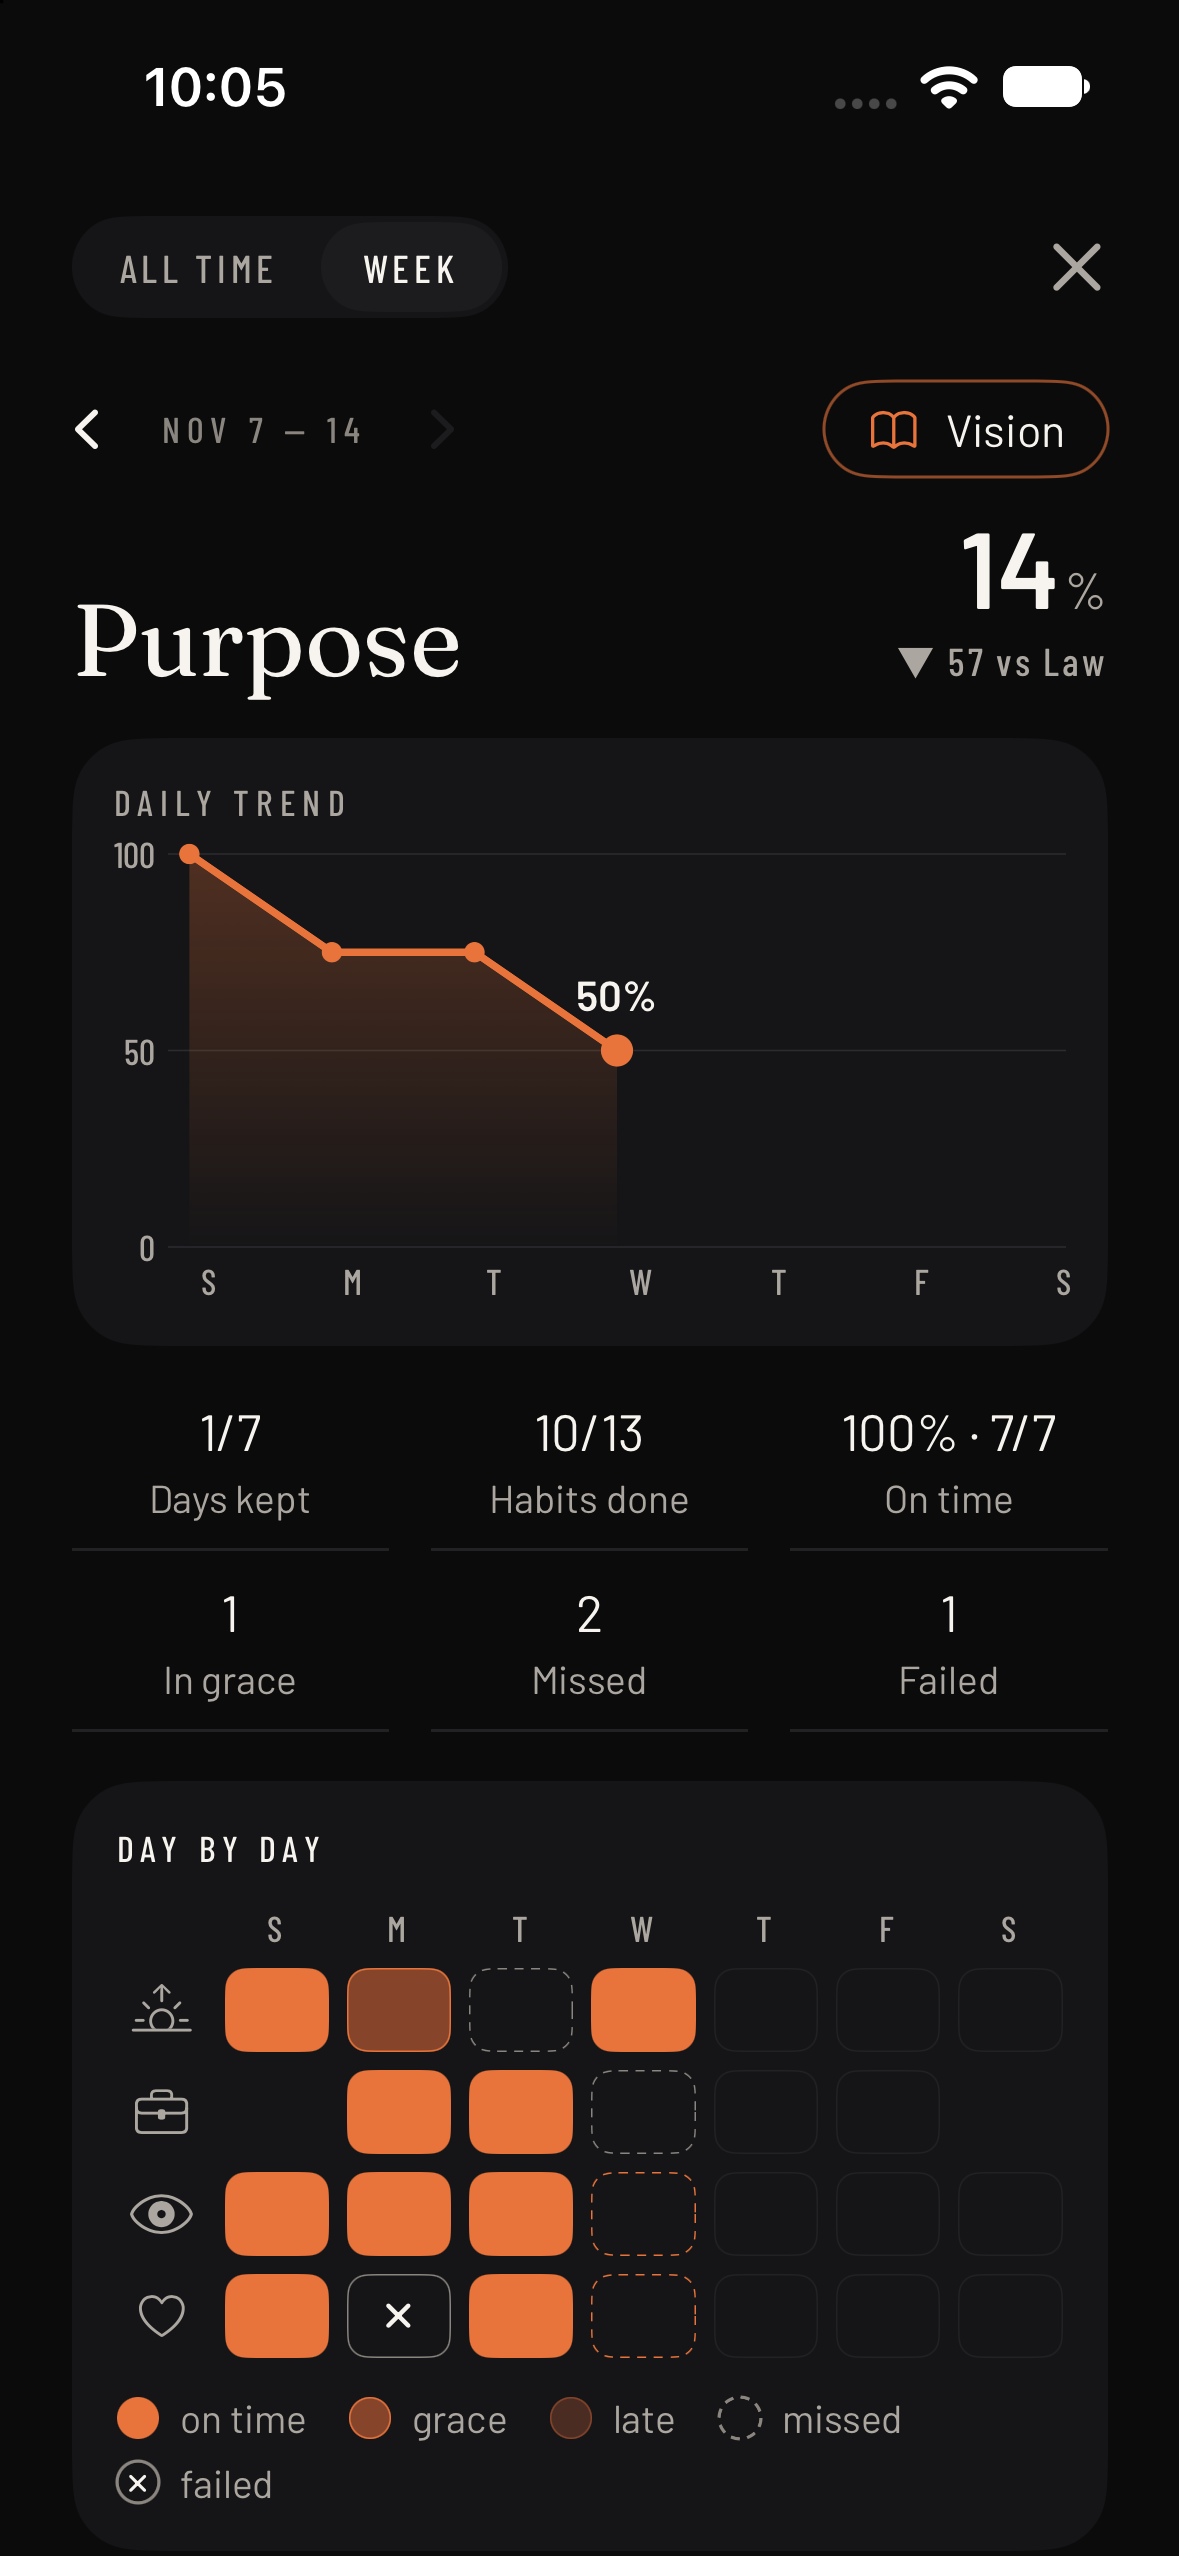
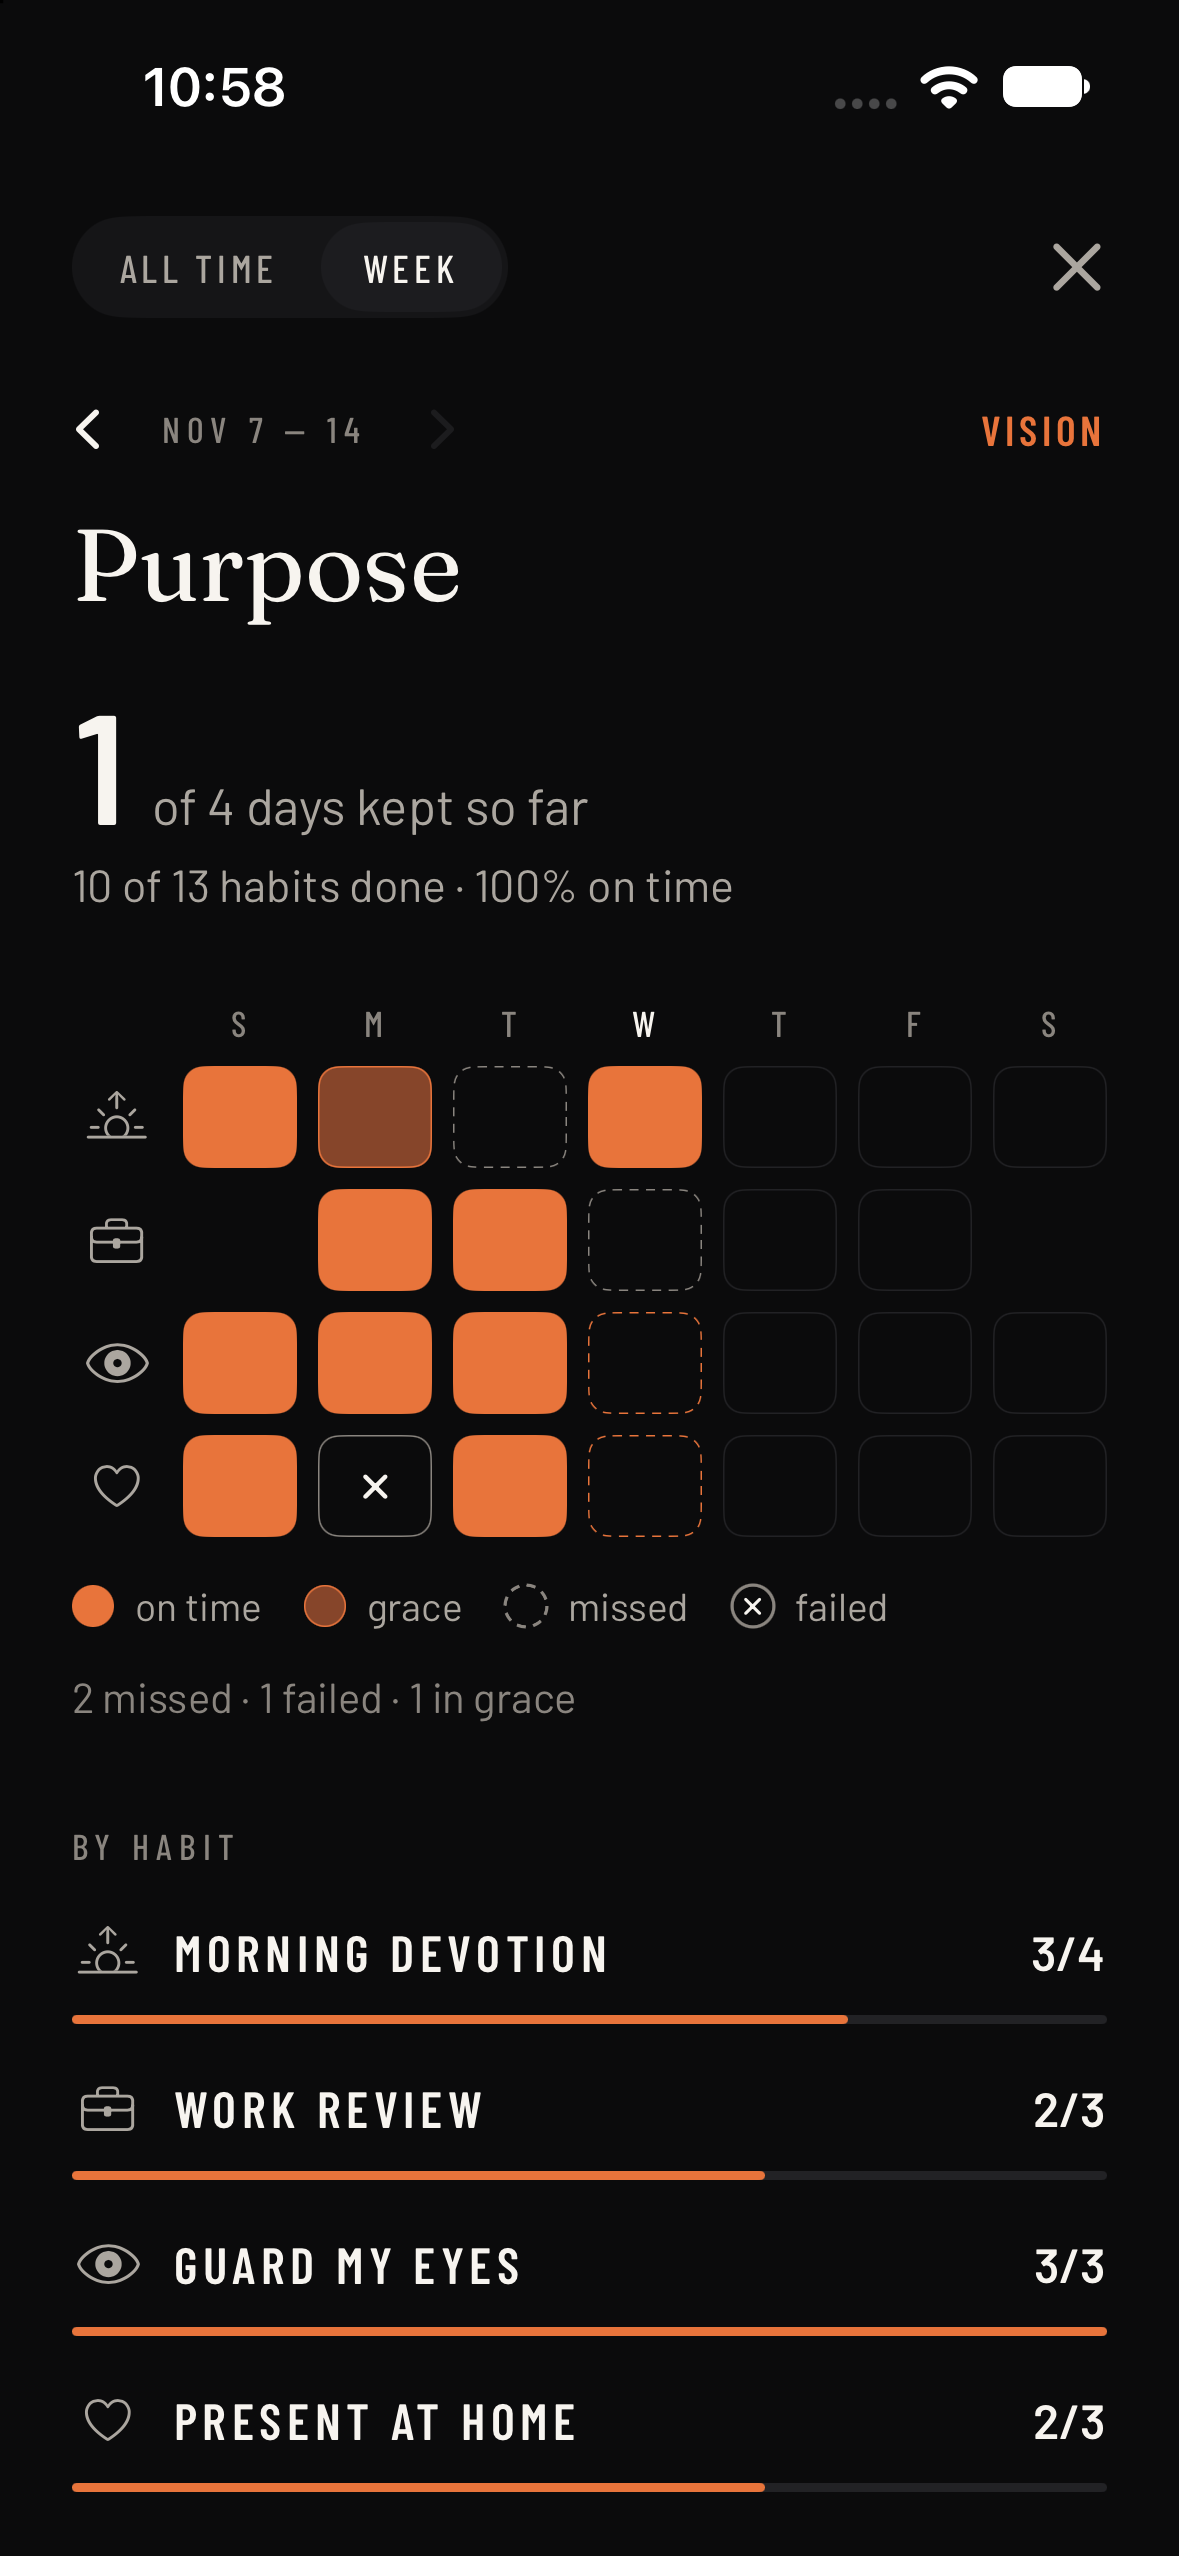
iOS: calmer stats. One headline, the week grid, one line for what slipped, habits as bars; unfinished weeks are not compared with finished ones

diff --git a/ios/WeeklyDirection/StatsView.swift b/ios/WeeklyDirection/StatsView.swift
@@ -1,7 +1,8 @@
 import SwiftUI
 import Charts
 
-/// Stats (web: openStats / openAllStats): ALL TIME | WEEK. The week view steps through weeks with ‹ › or a swipe.
+/// Stats (web: openStats / openAllStats, simplified Nov 9 2026 at Eddie's request): ALL TIME | WEEK. One headline, the week
+/// as a grid, what slipped in one quiet line, each habit as a bar. A week in progress is never compared with a finished one. The week view steps through weeks with ‹ › or a swipe.
 struct StatsView: View {
     @EnvironmentObject var store: Store
     @Environment(\.dismiss) private var dismiss
@@ -30,7 +31,7 @@ struct StatsView: View {
             .padding(.leading, 24).padding(.trailing, 12).padding(.top, 8)
             ScrollView {
                 VStack(alignment: .leading, spacing: 0) {
-                    if mode == "all" { if Theme.statsV2 { allTime2 } else { allTime } } else if let w = shown { if Theme.statsV2 { week2(w) } else { week(w) } }
+                    if mode == "all" { allTime } else if let w = shown { week(w) }
                 }
                 .fullWidth().padding(.horizontal, 24).padding(.top, 14).padding(.bottom, 50)
             }
@@ -47,52 +48,6 @@ struct StatsView: View {
         }
     }
 
-    // MARK: week
-
-    @ViewBuilder private func week(_ w: Week) -> some View {
-        let d = Logic.weekDetail(w, store.weeks, store.settings), st = d.stats
-        HStack(spacing: 6) {
-            navButton("chevron.left", d.prev)
-            Eyebrow(text: Fmt.weekRange(w, store.settings), color: Theme.mu2, size: 12)
-            navButton("chevron.right", d.next)
-            Spacer()
-            Button { vision = true } label: {
-                HStack(spacing: 8) { Image(systemName: "book").font(.system(size: 14)).foregroundStyle(Theme.ac); Text("Vision").font(Theme.ui(15)).foregroundStyle(Theme.tx) }
-                    .padding(.horizontal, 14).frame(height: 32)
-                    .overlay(Theme.pill.stroke(Theme.ac.opacity(0.6), lineWidth: 1))
-            }
-            .buttonStyle(.plain)
-        }
-        .padding(.leading, -12)
-        HStack(alignment: .lastTextBaseline) {
-            Text(w.focus).title(34).foregroundStyle(Theme.tx).lineLimit(1).minimumScaleFactor(0.5)
-            Spacer()
-            VStack(alignment: .trailing, spacing: 2) {
-                bigPct(st.pct)
-                if let pv = d.prev, let pp = d.prevPct {
-                    Text("\(st.pct >= pp ? "▲" : "▼") \(abs(st.pct - pp)) vs \(pv.focus)").font(Theme.label(13)).tracking(1).foregroundStyle(Theme.mu)
-                }
-            }
-        }
-        .padding(.top, 6)
-        let today = Rules.ymd(Now.date)
-        TrendChart(title: "Daily trend", sub: "",
-                   points: d.keys.enumerated().map { i, k in .init(label: Fmt.dow[Rules.weekday(st.days[i])], value: d.daily[i], live: k == today) }, height: 150)
-            .padding(.top, 12)
-        StatGrid(rows: [("Days kept", "\(st.kept)/\(st.days.count)"), ("Habits done", "\(d.done)/\(d.due)"),
-                        ("On time", d.tDone > 0 ? "\(Fmt.pct(d.tOn, d.tDone))% · \(d.tOn)/\(d.tDone)" : "—"),
-                        ("In grace", "\(d.grace)"), ("Missed", "\(d.miss)"), ("Failed", "\(d.fail)")]).padding(.top, 8)
-        section("Day by day") { grid(w, d) }
-        section("By habit") {
-            ForEach(Array(d.per.enumerated()), id: \.offset) { i, t in
-                let pct = t.due > 0 ? Fmt.pct(t.done, t.due) : 0
-                let bits = ["\(t.done)/\(t.due)", t.c.by != nil && t.done > 0 ? "\(Fmt.pct(t.on + t.grace, t.done))% on time" : "",
-                            t.grace > 0 ? "\(t.grace) grace" : "", t.late > 0 ? "\(t.late) late" : "", t.fail > 0 ? "\(t.fail) failed" : ""]
-                HabitBar(c: t.c, sub: bits.filter { !$0.isEmpty }.joined(separator: " · "), pct: pct, last: i == d.per.count - 1)
-            }
-        }
-    }
-
     private func navButton(_ icon: String, _ target: Week?) -> some View {
         Button { if let target { Haptic.tick(); weekId = target.id } } label: {
             Image(systemName: icon).font(.system(size: 15, weight: .semibold)).foregroundStyle(target == nil ? Theme.line : Theme.tx)
@@ -102,48 +57,6 @@ struct StatsView: View {
         .accessibilityLabel(icon == "chevron.left" ? "Previous week" : "Next week")
     }
 
-    private func bigPct(_ v: Int) -> some View {
-        HStack(alignment: .firstTextBaseline, spacing: 1) {
-            Text("\(v)").font(Theme.num(36)).foregroundStyle(Theme.tx)
-            Text("%").font(Theme.ui(17)).foregroundStyle(Theme.mu)
-        }
-    }
-
-    private func section<V: View>(_ title: String, @ViewBuilder _ content: () -> V) -> some View {
-        VStack(alignment: .leading, spacing: 12) {
-            Eyebrow(text: title, color: Theme.tx, size: 12)
-            content()
-        }
-        .fullWidth().padding(15)
-        .card(22)
-        .padding(.top, 16)
-    }
-
-    /// habit × day cells: on time, grace, late, missed, failed
-    private func grid(_ w: Week, _ d: Logic.WeekDetail) -> some View {
-        VStack(alignment: .leading, spacing: 6) {
-            HStack(spacing: 6) {
-                Color.clear.frame(width: 30, height: 1)
-                ForEach(d.stats.days, id: \.self) { day in
-                    Text(Fmt.dow[Rules.weekday(day)]).font(Theme.label(12)).tracking(1).foregroundStyle(Theme.mu).frame(maxWidth: .infinity)
-                }
-            }
-            ForEach(w.commitments) { c in
-                HStack(spacing: 6) {
-                    Ico(name: c.icon, size: 16).foregroundStyle(Theme.mu).frame(width: 30)
-                    ForEach(d.keys, id: \.self) { k in
-                        CellView(cell: Logic.cell(w, k, c)).frame(maxWidth: .infinity).frame(height: 28)
-                            .accessibilityLabel("\(c.name) · \(Fmt.dowl[Rules.weekday(Logic.noon(k))]): \(Logic.cell(w, k, c).rawValue)")
-                    }
-                }
-            }
-            HStack(spacing: 14) {
-                legend(.on, "on time"); legend(.grace, "grace"); legend(.late, "late"); legend(.miss, "missed")
-            }
-            .padding(.top, 6)
-            legend(.fail, "failed")
-        }
-    }
     private func legend(_ c: Logic.Cell, _ t: String) -> some View {
         HStack(spacing: 7) {
             CellView(cell: c, round: true).frame(width: 14, height: 14)
@@ -151,10 +64,10 @@ struct StatsView: View {
         }
     }
 
-    // MARK: calmer stats (preview, -MockStats 1)
+    // MARK: week
 
     /// one headline, the week as a grid, what slipped in a single quiet line, then each habit
-    @ViewBuilder private func week2(_ w: Week) -> some View {
+    @ViewBuilder private func week(_ w: Week) -> some View {
         let d = Logic.weekDetail(w, store.weeks, store.settings), st = d.stats
         let today = Rules.ymd(Now.date)
         let elapsed = w.isActive ? d.keys.filter { $0 <= today }.count : st.days.count
@@ -174,7 +87,7 @@ struct StatsView: View {
         .padding(.top, 14)
         Text("\(d.done) of \(d.due) habits done" + (d.tDone > 0 ? " · \(Fmt.pct(d.tOn, d.tDone))% on time" : ""))
             .font(Theme.ui(15)).foregroundStyle(Theme.mu)
-        grid2(w, d, today).padding(.top, 30)
+        grid(w, d, today).padding(.top, 30)
         let slipped = [d.miss > 0 ? "\(d.miss) missed" : "", d.fail > 0 ? "\(d.fail) failed" : "", d.grace > 0 ? "\(d.grace) in grace" : ""].filter { !$0.isEmpty }
         Text(slipped.isEmpty ? "Nothing missed." : slipped.joined(separator: " · ")).font(Theme.ui(14)).foregroundStyle(Theme.mu2).padding(.top, 14)
         Eyebrow(text: "By habit", color: Theme.mu2, size: 12).padding(.top, 34)
@@ -183,7 +96,7 @@ struct StatsView: View {
         }
     }
 
-    private func grid2(_ w: Week, _ d: Logic.WeekDetail, _ today: String) -> some View {
+    private func grid(_ w: Week, _ d: Logic.WeekDetail, _ today: String) -> some View {
         VStack(alignment: .leading, spacing: 7) {
             HStack(spacing: 7) {
                 Color.clear.frame(width: 30, height: 1)
@@ -211,7 +124,9 @@ struct StatsView: View {
         }
     }
 
-    @ViewBuilder private var allTime2: some View {
+    // MARK: all time
+
+    @ViewBuilder private var allTime: some View {
         let a = Logic.allTime(store.weeks, store.settings), s = Logic.streak(store.weeks, store.settings)
         if let first = a.weeks.first {
             Eyebrow(text: "Since \(Fmt.dateYear(first.w.sealedAt)) · \(a.weeks.count) week\(a.weeks.count > 1 ? "s" : "")", color: Theme.mu2, size: 12)
@@ -239,33 +154,6 @@ struct StatsView: View {
         }
     }
 
-    // MARK: all time
-
-    @ViewBuilder private var allTime: some View {
-        let a = Logic.allTime(store.weeks, store.settings), s = Logic.streak(store.weeks, store.settings)
-        if let first = a.weeks.first {
-            Eyebrow(text: "Since \(Fmt.dateYear(first.w.sealedAt)) · \(a.weeks.count) week\(a.weeks.count > 1 ? "s" : "")", color: Theme.mu2, size: 12)
-            Text("All time").title(34).foregroundStyle(Theme.tx).padding(.top, 4)
-            HStack(alignment: .firstTextBaseline, spacing: 12) {
-                bigPct(a.pct)
-                Text("of all habits done").font(Theme.label(13)).tracking(1).foregroundStyle(Theme.tx)
-            }
-            TrendChart(title: "Weekly trend",
-                       sub: a.avg.map { "avg \($0)%" + (a.best.map { " · best \($0.w.focus) \($0.pct)%" } ?? "") } ?? "",
-                       points: a.weeks.map { .init(label: Fmt.slash($0.w.sealedAt.addingTimeInterval(86400)), value: $0.pct, live: $0.w.isActive) }, height: 190)
-                .padding(.top, 10)
-            StatGrid(rows: [("Days kept", "\(a.kept)/\(a.days)"), ("Day streak", "\(s.cur) · best \(s.best)"),
-                            ("On time", a.onTime.map { "\($0)%" } ?? "—"), ("Perfect weeks", "\(a.perfect)"), ("Weeks closed", "\(a.closed)"),
-                            ("In grace", "\(a.grace)"), ("Missed", "\(a.miss)"), ("Failed", "\(a.fail)")]).padding(.top, 8)
-            section("By habit") {
-                ForEach(Array(a.habits.enumerated()), id: \.offset) { i, h in
-                    let p = h.due > 0 ? Fmt.pct(h.done, h.due) : 0
-                    HabitBar(c: h.c, sub: ["\(h.done)/\(h.due) days", h.tdone > 0 ? "\(Fmt.pct(h.on, h.tdone))% on time" : ""].filter { !$0.isEmpty }.joined(separator: " · "),
-                             pct: p, last: i == a.habits.count - 1)
-                }
-            }
-        }
-    }
 }
 
 struct CellView: View {
@@ -292,7 +180,7 @@ struct CellView: View {
     }
 }
 
-/// calmer stats: a habit as its name, one figure and a full-width hairline bar
+/// a habit as its name, one figure and a full-width hairline bar
 struct HabitLine: View {
     let c: Commitment
     let value: String
@@ -314,53 +202,6 @@ struct HabitLine: View {
             .frame(height: 3)
         }
         .padding(.top, 16)
-    }
-}
-
-/// stat grid, three across, numbers centered
-struct StatGrid: View {
-    let rows: [(String, String)]
-    var body: some View {
-        LazyVGrid(columns: Array(repeating: GridItem(.flexible(), spacing: 14), count: 3), spacing: 0) {
-            ForEach(rows, id: \.0) { r in
-                VStack(spacing: 4) {
-                    Text(r.1).font(Theme.ui(17)).foregroundStyle(Theme.tx).lineLimit(1).minimumScaleFactor(0.7)
-                    Text(r.0).font(Theme.ui(13)).foregroundStyle(Theme.mu)
-                }
-                .frame(maxWidth: .infinity).padding(.vertical, 10)
-                .overlay(alignment: .bottom) { Rectangle().fill(Theme.rule).frame(height: 1) }
-            }
-        }
-    }
-}
-
-struct HabitBar: View {
-    let c: Commitment
-    let sub: String
-    let pct: Int
-    let last: Bool
-    var body: some View {
-        VStack(spacing: 0) {
-            HStack(spacing: 10) {
-                Ico(name: c.icon, size: 17).foregroundStyle(Theme.tx)
-                VStack(alignment: .leading, spacing: 3) {
-                    Text(c.name).rowTitle().foregroundStyle(Theme.tx).lineLimit(1)
-                    Text(sub).font(Theme.label(13)).tracking(0.9).foregroundStyle(Theme.mu2).lineLimit(1)
-                }
-                Spacer(minLength: 6)
-                ZStack(alignment: .leading) {
-                    Theme.pill.fill(Theme.line).frame(width: 40, height: 4)
-                    Theme.pill.fill(Theme.ac).frame(width: 40 * CGFloat(pct) / 100, height: 4)
-                }
-                HStack(alignment: .firstTextBaseline, spacing: 1) {
-                    Text("\(pct)").font(Theme.num(18)).foregroundStyle(Theme.tx)
-                    Text("%").font(Theme.ui(11)).foregroundStyle(Theme.mu)
-                }
-                .frame(width: 54, alignment: .trailing)
-            }
-            .padding(.vertical, 12)
-            if !last { Rectangle().fill(Theme.rule).frame(height: 1) }
-        }
     }
 }
 

diff --git a/ios/WeeklyDirection/Theme.swift b/ios/WeeklyDirection/Theme.swift
@@ -10,8 +10,6 @@ enum Theme {
     /// Flat style preview (-MockStyle 1 or 2, sample-data mode only): a design finding Eddie tried and turned down
     /// (Nov 9 2026: "keep original"). 1 = square, outlined shapes; 2 = the same plus condensed caps titles.
     static let style: Int = Mock.enabled ? UserDefaults.standard.integer(forKey: "MockStyle") : 0
-    /// Calmer stats preview (-MockStats 1, sample data only): a design finding, not approved.
-    static let statsV2: Bool = Mock.enabled && UserDefaults.standard.integer(forKey: "MockStats") == 1
     /// The journal's own page (Eddie, Nov 9 2026): a warm brown-black page in dark mode, the web app's cream paper in
     /// light mode, set in Georgia with plain-word buttons and italic stamps. Used by the journal list, the week page
     /// and the editor only.
